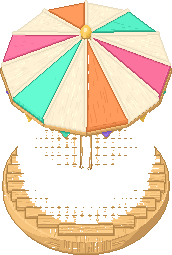
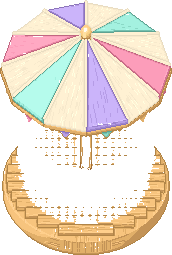
遊具をいちごミルクとミントの配色にする

diff --git a/tools/art/handoff3d/rides.py b/tools/art/handoff3d/rides.py
@@ -20,18 +20,20 @@ from math import cos, sin, sqrt, tau
 
 from common import WOOD
 
-PINK = (247, 112, 155)
+PINK = (245, 153, 181)
 CREAM = (255, 241, 211)
-MINT = (79, 219, 180)
+MINT = (148, 218, 202)
 GOLD = (222, 176, 116)
 TRIM = (168, 118, 111)
-BLUE = (139, 209, 239)
-LILAC = (168, 129, 237)
-PEACH = (255, 155, 92)
-SUN = (255, 205, 92)
-SILVER = (189, 205, 216)
+BLUE = (167, 221, 245)
+LILAC = (194, 172, 238)
+PEACH = (252, 184, 150)
+SUN = (255, 218, 141)
+SILVER = (195, 200, 228)
 BRASS = (184, 136, 83)
-LEATHER = (159, 102, 95)
+LEATHER = (160, 109, 100)
+PALE_MINT = (174, 229, 217)
+CREAM_PAINT = (249, 224, 179)
 ROPE = (195, 161, 113)
 SEATS = {"merry": 3, "cup": 2, "skyswing": 3, "wheel": 4}
 SPEED = {"merry": 1, "cup": 1.3, "skyswing": 1, "wheel": .35}
@@ -60,7 +62,7 @@ def carousel(m, phase, broken, seats):
         b = (panel + 1) * tau / 12
         x, y, z = polar(1.31, a, 2.14 + .10 * cos(a) * broken)
         u, v, w = polar(1.31, b, 2.14 + .10 * cos(b) * broken)
-        color = (PINK, CREAM, PEACH, CREAM, MINT, CREAM)[panel % 6]
+        color = (PINK, CREAM, LILAC, CREAM, MINT, CREAM)[panel % 6]
         m.part(color, surface="cloth")
         m.sc.tri((roof_x, 0, 2.65), (x, y, z), (u, v, w), m.color(color))
         m.sc.quad((x, y, z), (u, v, w), (u, v, w-.10),
@@ -69,11 +71,12 @@ def carousel(m, phase, broken, seats):
         m.rod((roof_x, 0, 2.65), (x, y, z+.015), .014, CREAM)
         if not broken:
             cx, cy = (x+u)/2, (y+v)/2
-            m.part((MINT, SUN, LILAC)[panel % 3], surface="cloth")
+            flag = (PINK, SUN, MINT, LILAC)[panel % 4]
+            m.part(flag, surface="cloth")
             m.sc.tri((x*.34+cx*.66, y*.34+cy*.66, z-.10),
                      (u*.34+cx*.66, v*.34+cy*.66, w-.10),
                      (cx, cy, (z+w)/2-.235),
-                     m.color((MINT, SUN, LILAC)[panel % 3]))
+                     m.color(flag))
     m.ball((roof_x, 0, 2.69), .09, SUN, surface="polished")
     for index in range(3):
         angle = phase + index * tau / 3
@@ -106,7 +109,7 @@ def carousel(m, phase, broken, seats):
 
 def cups(m, phase, broken, seats):
     m.lathe([(0, 0), (1.32, 0), (1.38, .11), (1.38, .23),
-             (1.30, .30), (0, .30)], MINT)
+             (1.30, .30), (0, .30)], PALE_MINT)
     m.lathe([(0,.30),(.11,.30),(.105,.49),(.169,.54),(.244,.64),
              (.253,.68),(.253,.703),(.213,.703),(.184,.602),
              (0,.601)], BLUE, surface="enamel")
@@ -120,7 +123,7 @@ def cups(m, phase, broken, seats):
     m.lathe([(1.29,.231),(1.37,.231),(1.36,.265),(1.29,.265)], CREAM)
     for i in range(12):
         m.ball(polar(1.29, i*tau/12, .269), .036,
-               (SUN, PEACH, LILAC)[i % 3], surface="enamel")
+               (SUN, PINK, LILAC)[i % 3], surface="enamel")
     for index in range(2):
         angle = phase + index * tau / 2
         x, y, _ = polar(.70, angle, 0)
@@ -166,12 +169,12 @@ def swing(m, phase, broken, seats):
         m.ball(polar(.59, i*tau/6, .216), .029, BRASS, surface="polished")
     m.lathe([(0, 4.04), (.74, 4.04), (.78, 4.17), (.71, 4.25),
              (.10, 4.42), (0, 4.42)], PINK, top[0], surface="enamel")
-    m.lathe([(.75,4.08),(.782,4.08),(.782,4.124),(.75,4.124)], SUN,
+    m.lathe([(.75,4.08),(.782,4.08),(.782,4.124),(.75,4.124)], CREAM_PAINT,
             top[0], surface="polished")
     m.ball((top[0], 0, 4.48), .081, CREAM)
     for i in range(12):
         x, y, z = polar(.742, i*tau/12, 4.17)
-        m.ball((x+top[0], y, z), .041, (CREAM, SUN, LILAC)[i % 3],
+        m.ball((x+top[0], y, z), .041, (CREAM, MINT, LILAC)[i % 3],
                surface="enamel")
     for index in range(3):
         angle = phase + index * tau / 3
@@ -237,12 +240,13 @@ def wheel(m, phase, broken, seats):
         return (hub[0]+radius*cos(angle), y,
                 hub[2]-radius*sin(angle)+(.18*cos(angle) if broken else 0))
 
-    for y in (-.34, -.07):
+    for y, rim_color in ((-.34, LILAC), (-.07, PINK)):
         if broken:
             angles = [tau*i/48 for i in range(4, 45)]
         else:
             angles = [tau*i/48 for i in range(49)]
-        m.tube([rim(a, y) for a in angles], .046, PINK, surface="polished")
+        m.tube([rim(a, y) for a in angles], .046, rim_color,
+               surface="polished")
         for index in range(8):
             a = phase + index*tau/8
             if not broken and index % 2 == 0:

diff --git a/handoff/from-gpt.md b/handoff/from-gpt.md
@@ -6,9 +6,11 @@
 
 ### H-1 遊園地の遊具
 
-- 昼の散乱光を足して、正常な遊具の木の床、支柱、座席の影を明るくした。明るさの平均は0〜255の尺度で14〜24上がった。彩度の平均は0.002未満の差。壊れた絵は修理された物と区別できるように前の明るさにした。
+- 明るさを保ち、お菓子のような配色にそろえた。回転木馬の屋根はいちごミルク・うす紫・ミントとクリーム。コーヒーカップの台は淡いミント、カップはピンクとうす紫。空中ブランコはピンクの屋根にクリームの縁、観覧車の二重の輪はピンクとうす紫にした。
 
-- 遊具のピンク、すみれ色、青緑、黄、だいだいを鮮やかにした。空中ブランコは黄みのある細い丸ひも2本を座席の留め具につないだ。回転に合わせて座席が外を向く。座席がついたひもは張り、切れたひもは先が曲がる。
+- 正常な遊具の木の床、支柱、座席には昼の散乱光を足した。壊れた遊具は色あせた仕上げにした。
+
+- 空中ブランコは黄みのある細い丸ひも2本を座席の留め具につないだ。回転に合わせて座席が外を向く。座席がついたひもは張り、切れたひもは先が曲がる。
 
 - 回転木馬の屋根に3色の布と小旗、馬に色違いの鞍とたてがみを付けた。カップはピンクとすみれ色の釉薬、空中ブランコは色違いの座席、観覧車は4色のゴンドラと輪の小さな飾り灯にした。
 - コーヒーカップの中央に水盤を付けた。水底が透け、小波の角度から空の光と中央の金の飾りの反射を求めて写した。壊れた水盤は水が抜けている。
@@ -26,7 +28,7 @@
 | 観覧車 | `(99,-186)`, `(0,-91)`, `(-99,-186)`, `(0,-280)` |
 
 - 全16コマの座席の位置、絵の左上と大きさは [sprites.json](files/H-1/sprites.json)。`rideAng` に `phase_factor` をかけた角度を1周16等分してコマを選び、同じコマの `seats[コマ][座席番号]` を `windRidePose` に使う。前後の描画順は、実際にせいれいを乗せるときに確認する。
-- 8まいの見本を `chipcheck.py` で確認。35〜100色、半透明0。64色以内の絵ではにた色0〜5組。輪郭が2ドット以上の所は2〜397、孤立ドットは152〜415。色数、輪郭、細い線の点に目安を超える所がある。
+- 8まいの見本を `chipcheck.py` で確認。32〜93色、半透明0。64色以内の絵ではにた色0〜5組。輪郭が2ドット以上の所は4〜403、孤立ドットは138〜435。色数、輪郭、細い線の点に目安を超える所がある。
 - [仮の絵との比較](files/H-1/cmp_x4.png) ・ [遊具の設計図](../tools/art/handoff3d/rides.py)
 
 ゲームのマップでの確認とチップへの登録は、絵の確認のあと。
